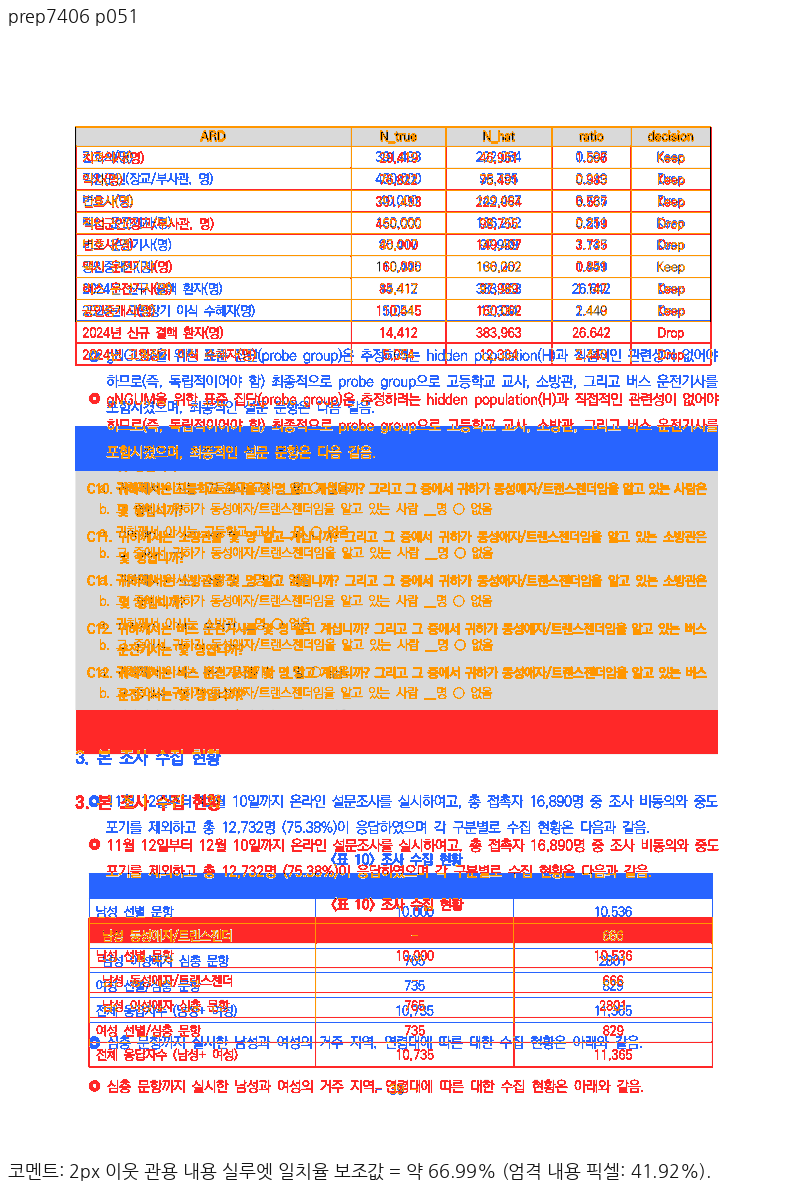
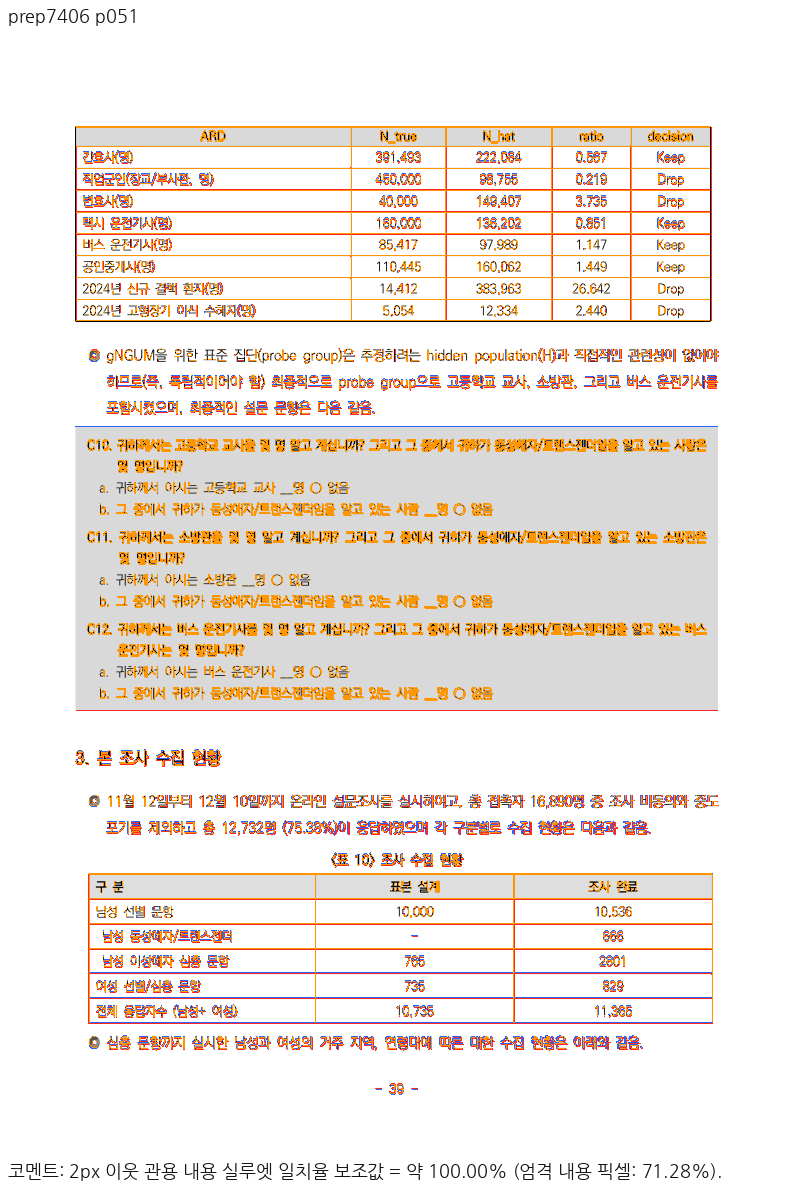
PR #7406 표 첫 조각의 저장 시작 위치와 행 분할 정합화

diff --git a/src/renderer/typeset/table/block/prepare.rs b/src/renderer/typeset/table/block/prepare.rs
@@ -3,9 +3,10 @@
 use crate::renderer::typeset::{
     cell_unit_row_is_atomic_here, controls, hwpunit_to_px,
     hwpx_stored_tac_table_starts_at_page_top, is_para_topbottom_float, is_synthetic_line_seg,
-    is_two_row_picture_caption_rowbreak_table, native_hwp5_rowbreak_host_precedes_first_fragment,
-    native_terminal_child_host_line_spacing, none_table_is_atomic_here, notes,
-    para_has_visible_text, paragraph, partial_rowbreak_fragment_spacing_px, row_geometry_table,
+    is_two_row_picture_caption_rowbreak_table, line_seg_visible_bounds_px,
+    native_hwp5_rowbreak_host_precedes_first_fragment, native_terminal_child_host_line_spacing,
+    none_table_is_atomic_here, notes, para_has_visible_text, paragraph,
+    partial_rowbreak_fragment_spacing_px, row_geometry_table,
     rowbreak_table_has_internal_saved_vpos_reset, stored_square_picture_has_adjacent_text, table,
     BlockTableContinuationContext, BlockTableContinuationPreparedState,
     BlockTableContinuationSource, CaptionDirection, Control, PageItem, TypesetEngine, TypesetState,
@@ -915,7 +916,68 @@ impl TypesetEngine {
                     table,
                     &column,
                     self.dpi,
-                ).map(|top| top - column.y)
+                )
+                .map(|top| top - column.y)
+                .or_else(|| {
+                    // HWPX의 한 줄 캡션 다음에 오는 빈-host Square RowBreak 표는
+                    // 저장 LineSeg 사다리에서 표의 첫 원점이 확정된다. 앞 문단을
+                    // 재측정한 흐름이 한 줄 이상 길어져도 분할 스캐너는 paint와
+                    // 같은 저장 원점에서 남은 쪽 높이를 계산해야 한다.
+                    let prev = para_idx.checked_sub(1).and_then(|i| paragraphs_all.get(i))?;
+                    if !st.profile.hwpx_stored_layout()
+                        || st.profile.session_edited()
+                        || !prev.controls.is_empty()
+                        || !para_has_visible_text(prev)
+                        || para_has_visible_text(para)
+                        || para.controls.len() != 1
+                        || table.common.treat_as_char
+                        || !matches!(
+                            table.common.text_wrap,
+                            crate::model::shape::TextWrap::Square
+                        )
+                        || !matches!(
+                            table.common.vert_rel_to,
+                            crate::model::shape::VertRelTo::Para
+                        )
+                        || table.common.vertical_offset != 0
+                        || !matches!(
+                            table.page_break,
+                            crate::model::table::TablePageBreak::RowBreak
+                        )
+                        || table.row_count <= 1
+                    {
+                        return None;
+                    }
+                    let mut previous_lines = prev
+                        .line_segs
+                        .iter()
+                        .filter(|seg| !is_synthetic_line_seg(seg));
+                    let previous = previous_lines.next()?;
+                    if previous_lines.next().is_some() {
+                        return None;
+                    }
+                    let mut host_lines = para
+                        .line_segs
+                        .iter()
+                        .filter(|seg| !is_synthetic_line_seg(seg));
+                    let host = host_lines.next()?;
+                    if host_lines.next().is_some()
+                        || previous
+                            .vertical_pos
+                            .saturating_add(previous.line_height)
+                            .saturating_add(previous.line_spacing)
+                            != host.vertical_pos
+                    {
+                        return None;
+                    }
+                    let (saved_top, _) = line_seg_visible_bounds_px(
+                        host,
+                        st.vpos_page_base.unwrap_or(0),
+                        self.dpi,
+                    )?;
+                    (saved_top <= st.current_height && saved_top < table_available)
+                        .then_some(saved_top)
+                })
             },
             next_para_stored_top: paragraphs_all.get(para_idx + 1).and_then(|next| {
                 let seg = next

diff --git a/tests/cases/issue_7390_prep_table_rowbreak.rs b/tests/cases/issue_7390_prep_table_rowbreak.rs
@@ -163,6 +163,33 @@ fn prep_single_cell_continuation_keeps_vertical_padding_and_following_flow() {
 }
 
 #[test]
+fn prep_population_table_keeps_last_fitting_rows_with_first_fragment() {
+    let bytes =
+        std::fs::read(Path::new(env!("CARGO_MANIFEST_DIR")).join(SAMPLE)).expect("PrEP 정식 원본");
+    let core = DocumentCore::from_bytes(&bytes).expect("PrEP 로드");
+    let first = core.build_page_render_tree(49).expect("물리 50쪽");
+    let next = core.build_page_render_tree(50).expect("물리 51쪽");
+    fn population_table(node: &RenderNode) -> Option<&RenderNode> {
+        if let RenderNodeType::Table(table) = &node.node_type {
+            if table.para_index == Some(480) && table.row_count == 21 && table.col_count == 5 {
+                return Some(node);
+            }
+        }
+        node.children.iter().find_map(population_table)
+    }
+    let first_rows = visible_rows(population_table(&first.root).expect("50쪽 인구집단 표"));
+    let next_rows = visible_rows(population_table(&next.root).expect("51쪽 인구집단 표"));
+    // 한컴 2024 PDF p50은 치과의사·약사 두 행까지 놓고, p51은
+    // 반복 제목행 뒤 간호사 행부터 재개한다.
+    assert!(
+        first_rows.contains(&11) && first_rows.contains(&12),
+        "50쪽 행: {first_rows:?}"
+    );
+    assert!(!next_rows.contains(&11) && !next_rows.contains(&12));
+    assert!(next_rows.contains(&13), "51쪽 행: {next_rows:?}");
+}
+
+#[test]
 fn prep_footnote_four_starts_on_next_physical_page() {
     let bytes =
         std::fs::read(Path::new(env!("CARGO_MANIFEST_DIR")).join(SAMPLE)).expect("PrEP 정식 원본");
